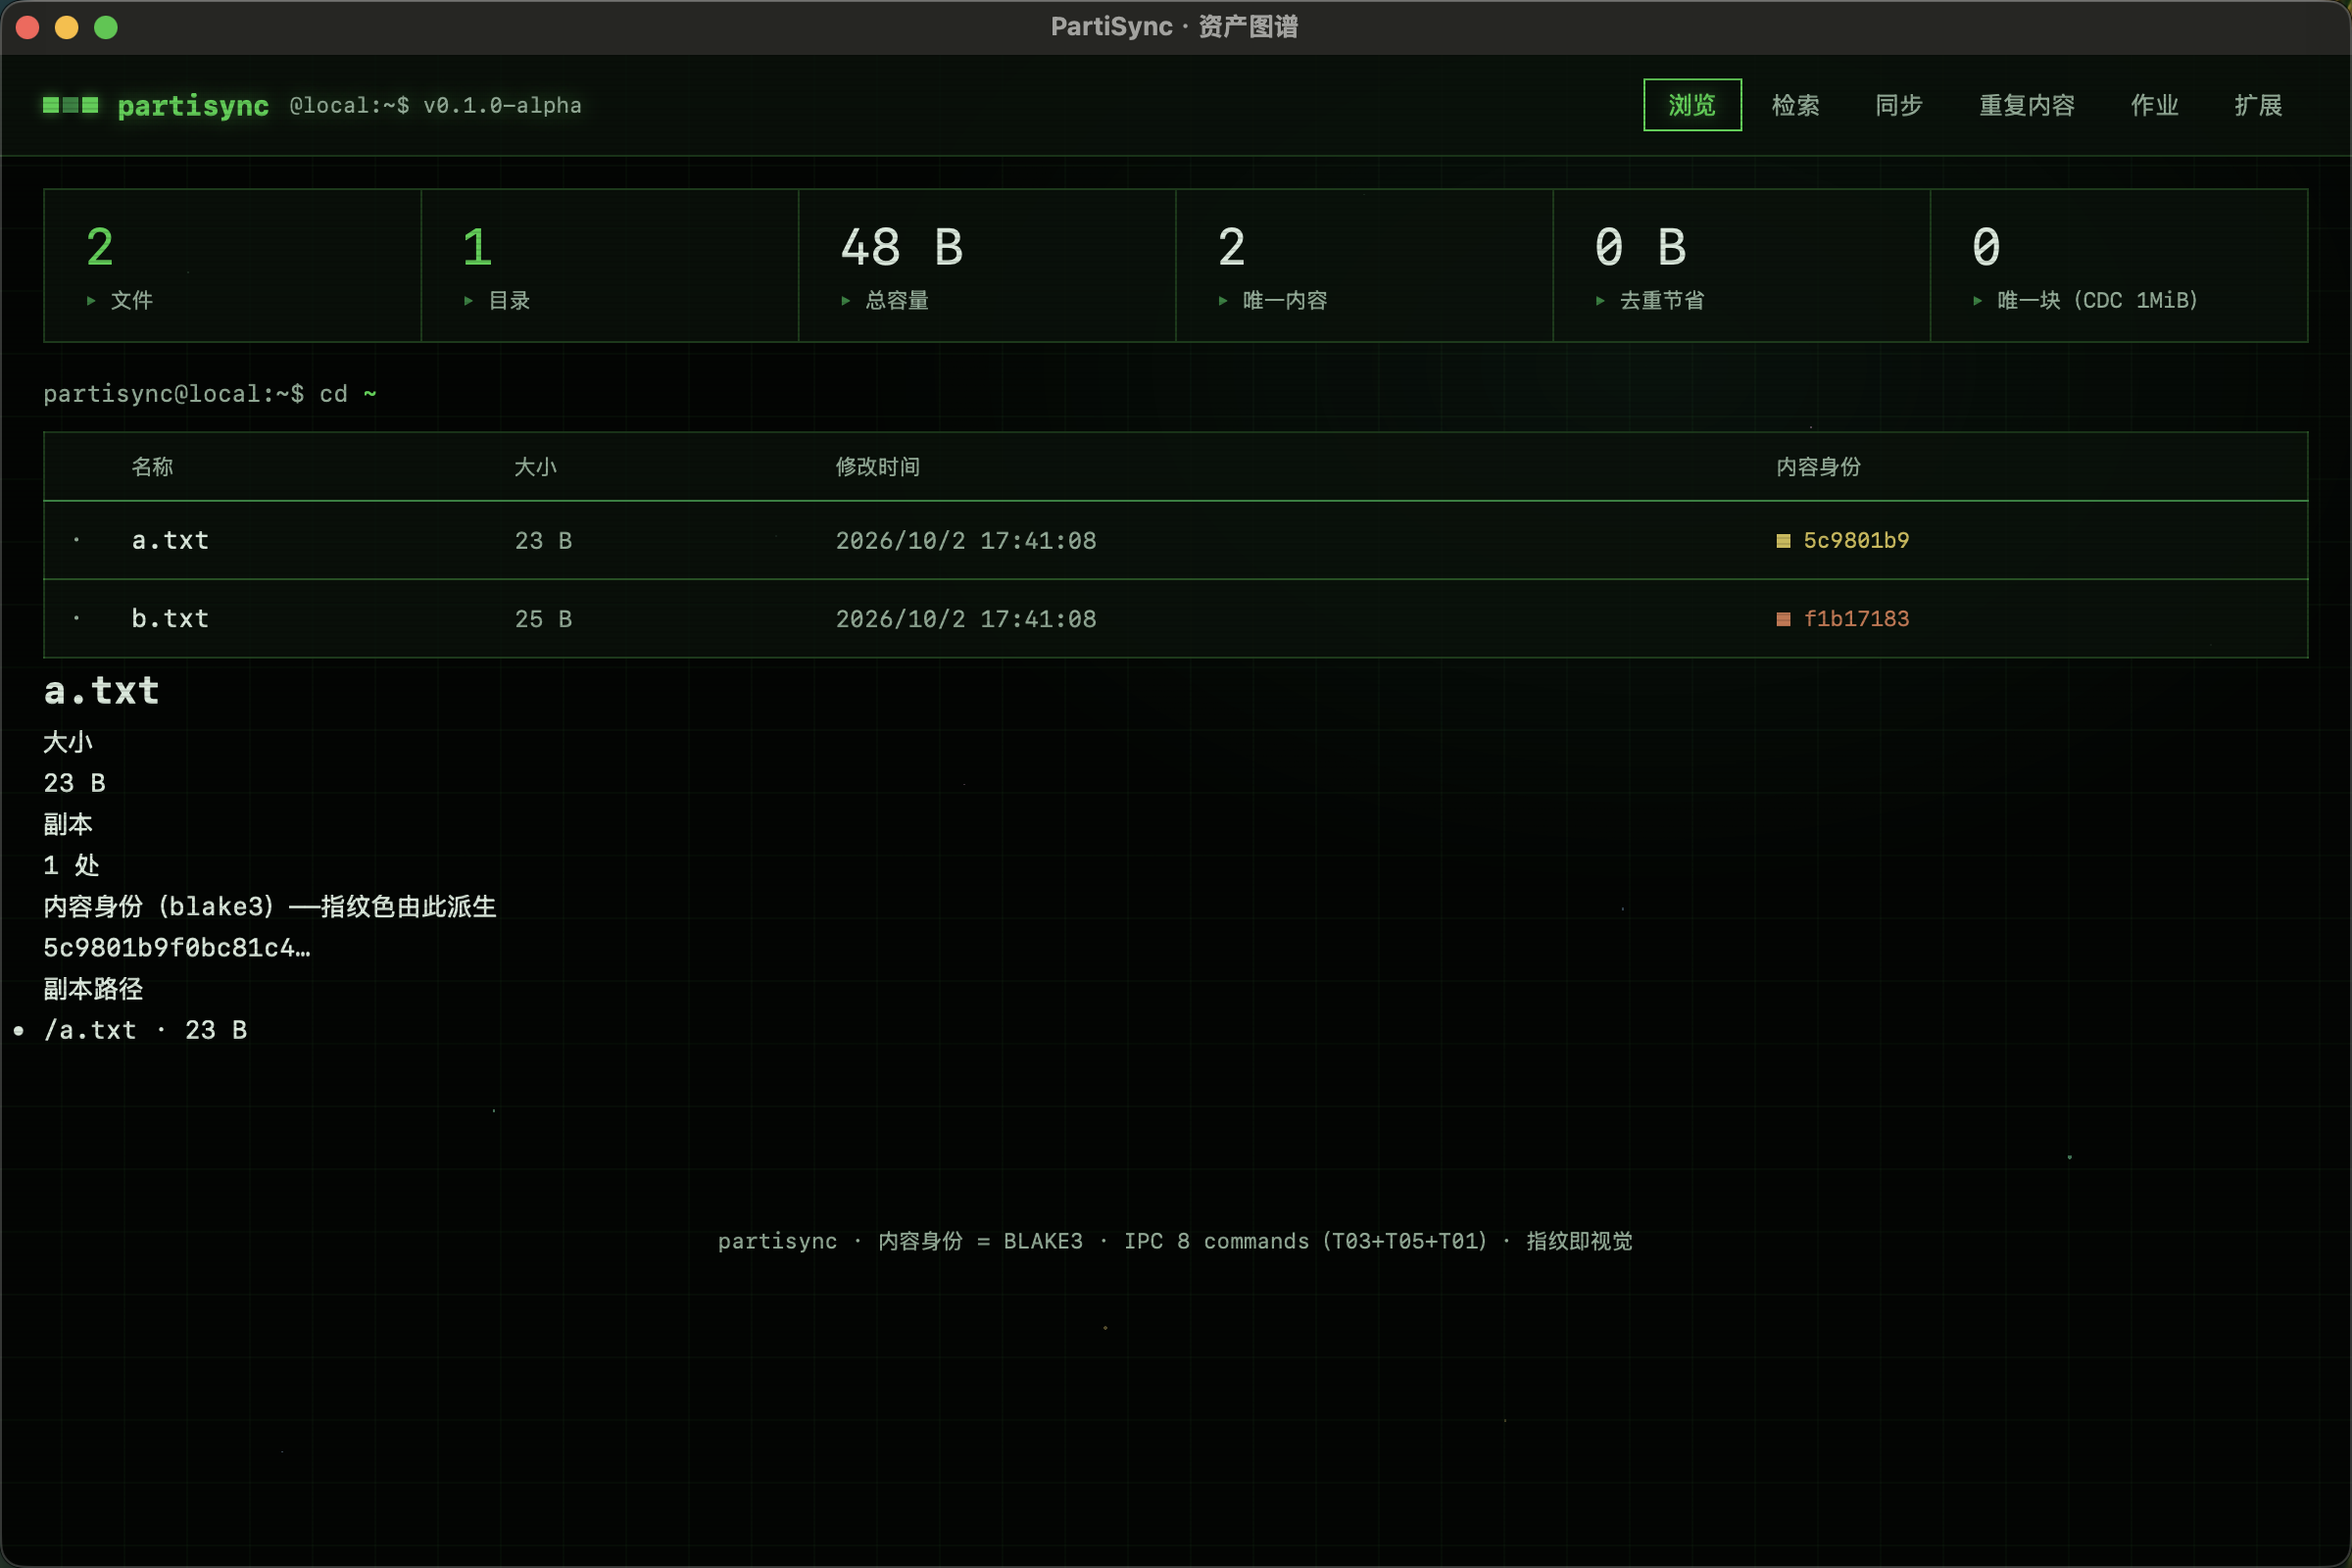
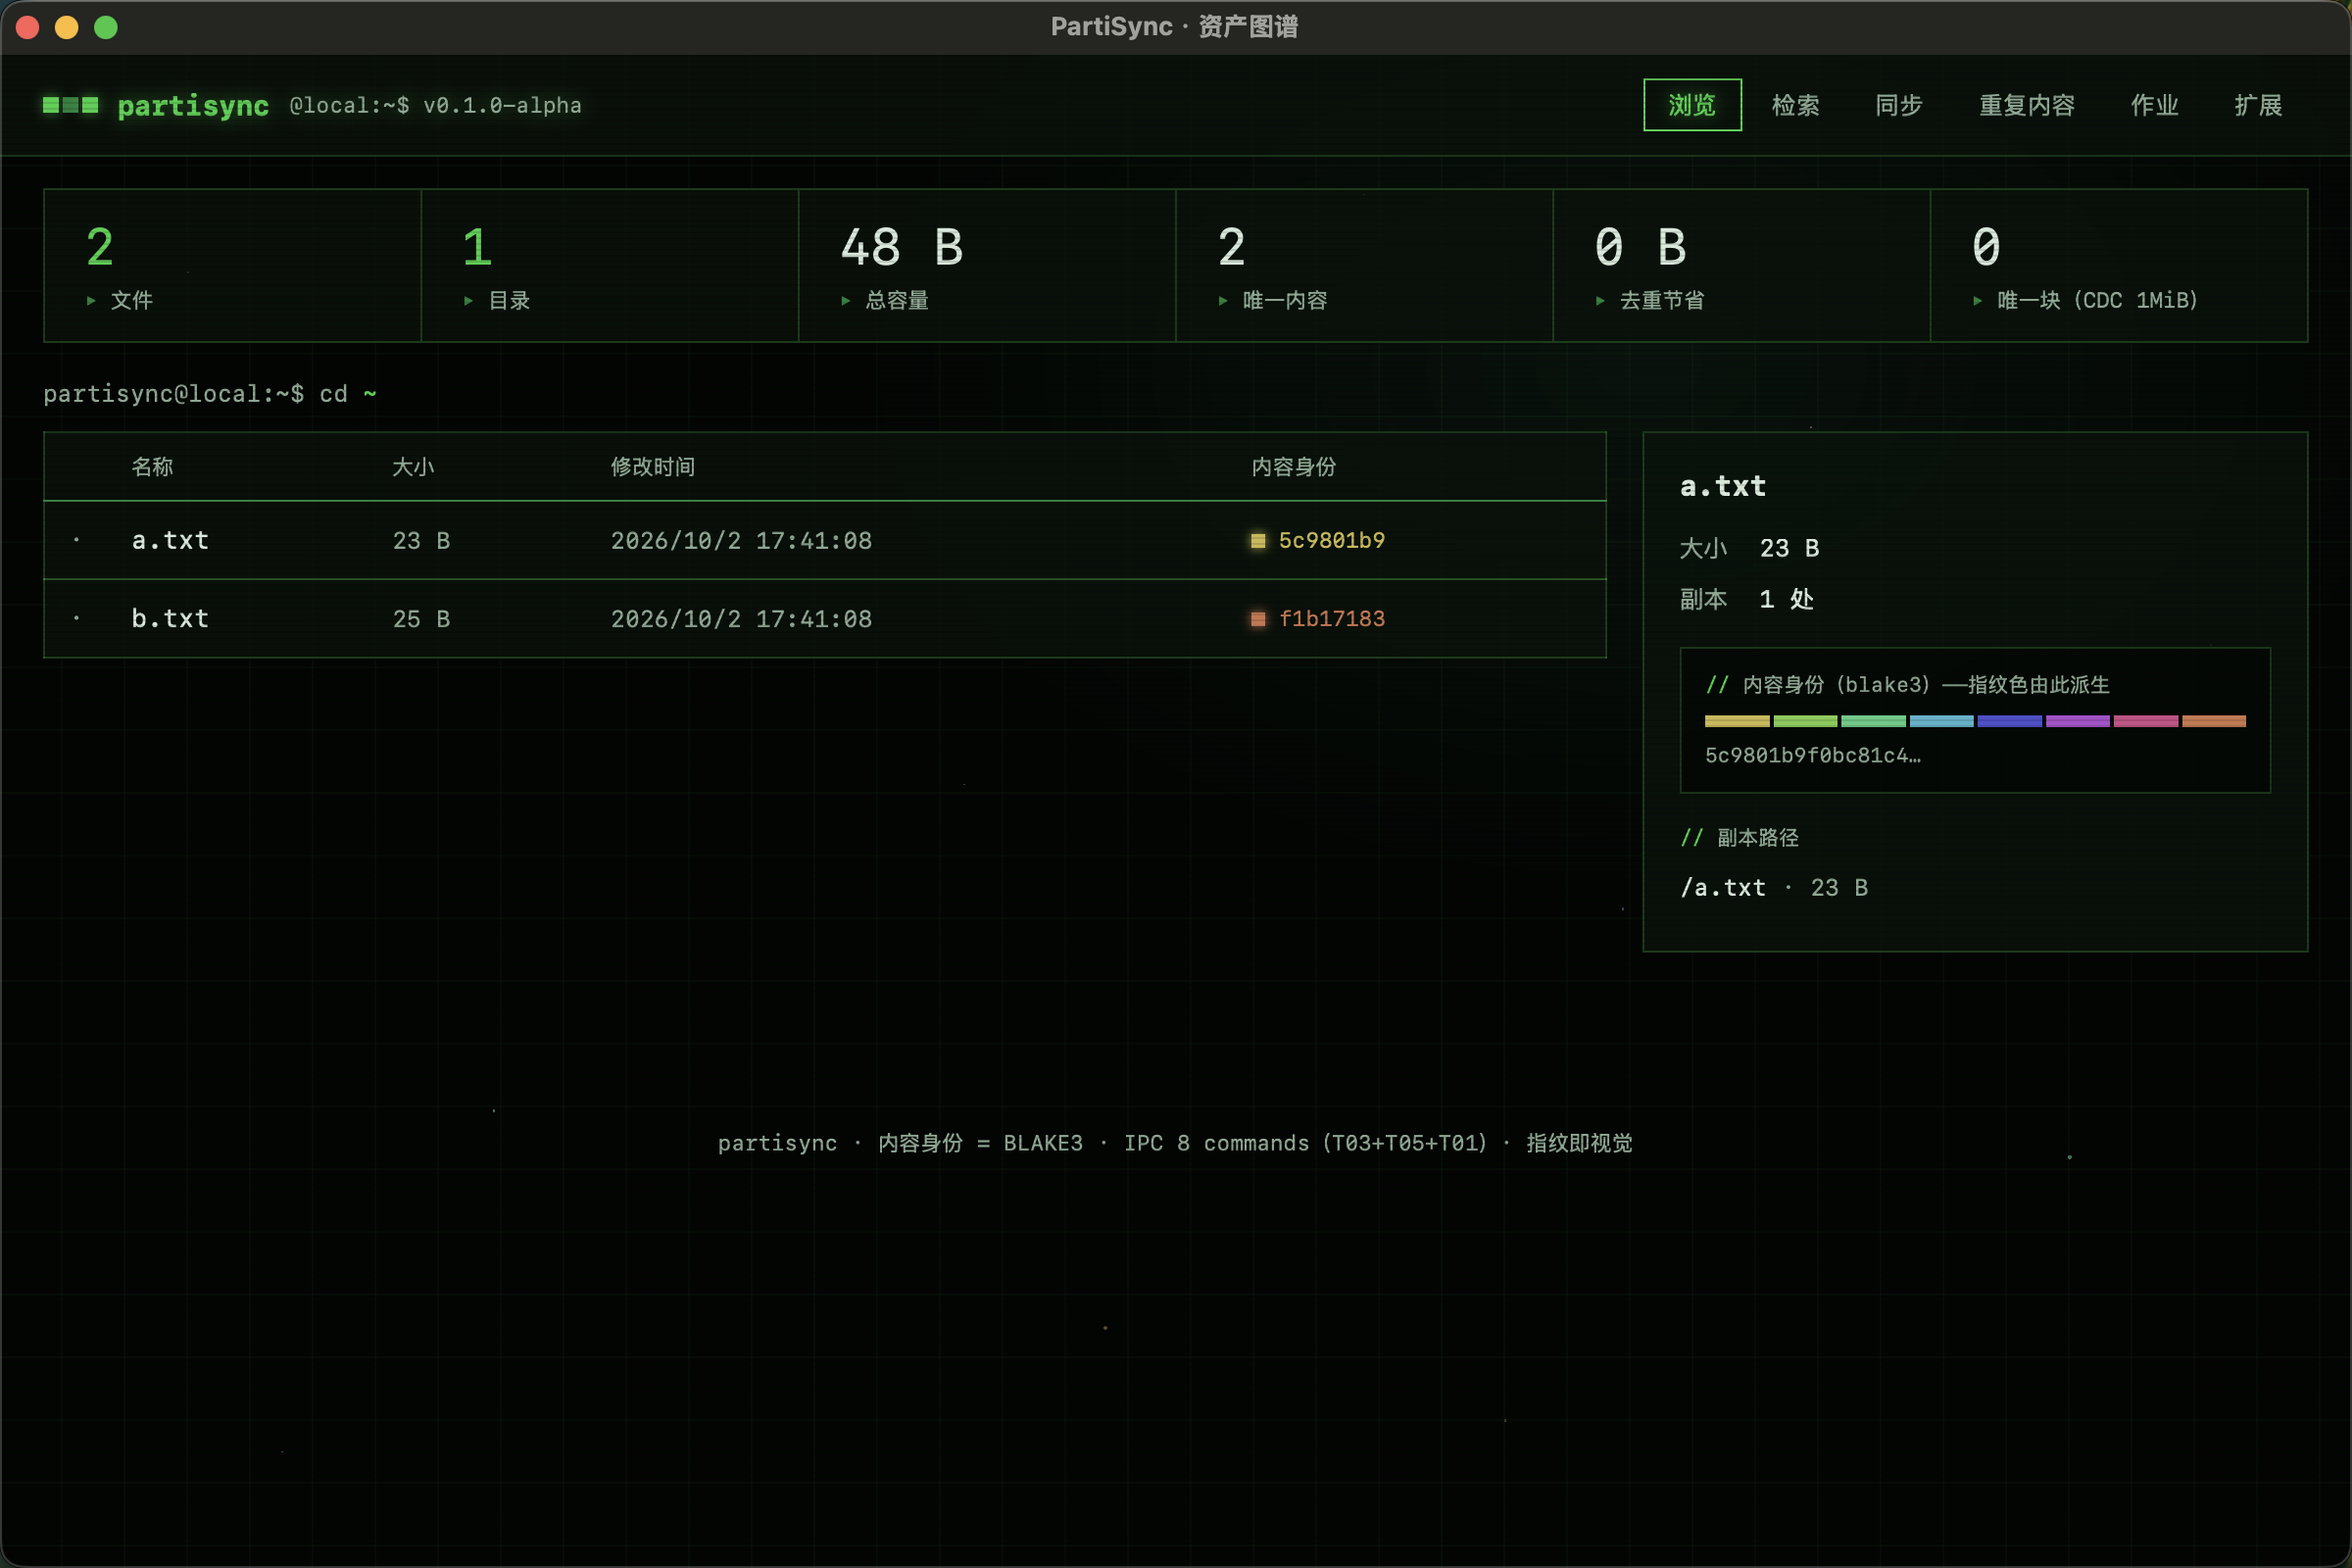
fix(desktop): 详情面板样式补齐——.stage 双栏/.detail dl/指纹色带（对照 mockup） [M8-WP05-T02]
Task-ID: M8-WP05-T02
Spec: docs/specs/M8-WP05.md
AI-Assist: GLM-5.3-Flash (ZCode) (styles-v3 补 .stage flex 双栏/.detail 面板/dl grid/fingerprint 8 段色带/copies 列表——此前仅在 mockup 未落 styles；GUI 截图对照 mockup 一致)
AI-Review: GLM-5.3-Flash (用户批评成立：视觉自查缺位——本 fix 后截图复核通过)

diff --git a/crates/partisync-desktop/ui/styles-v3.css b/crates/partisync-desktop/ui/styles-v3.css
@@ -207,6 +207,38 @@ main { padding: 0 22px 56px; }
 .panel-table tr.row-dir td.icon { color: var(--green); }
 .panel-table tr.row:hover td { background: rgba(34, 208, 69, 0.06); }
 .panel-table td.icon { width: 20px; color: var(--text-dim); }
+.panel-table td.fp i { border-radius: 50%; box-shadow: 0 0 5px var(--fp); }
+
+/* ===== 浏览双栏（表 + 详情面板；设计 v4.3 browse wireframe） ===== */
+.stage { display: flex; align-items: flex-start; gap: 18px; }
+.stage .panel-table { flex: 1; min-width: 0; }
+.detail {
+  width: 340px; flex-shrink: 0;
+  background: var(--panel); border: 1px solid var(--panel-line);
+  padding: 16px 18px 20px;
+  position: sticky; top: 14px;
+}
+.detail h2 { font-size: 14.5px; font-weight: 700; color: var(--text); line-height: 1.45; margin-bottom: 12px; }
+.detail dl { display: grid; grid-template-columns: auto 1fr; gap: 6px 16px; font-size: 12.5px; margin-bottom: 14px; }
+.detail dt { color: var(--text-dim); }
+.detail dd { color: var(--text); }
+.detail .fingerprint {
+  margin: 14px 0; padding: 10px 12px;
+  background: rgba(2, 5, 3, 0.7); border: 1px solid var(--panel-line);
+}
+.detail .fingerprint .label { font-size: 10.5px; color: var(--text-dim); margin-bottom: 7px; }
+.detail .fingerprint .label::before { content: "// "; color: var(--green); }
+.detail .fingerprint .strip { display: flex; height: 6px; gap: 2px; }
+.detail .fingerprint .strip i { flex: 1; }
+.detail .fingerprint .hash {
+  font-size: 10.5px; margin-top: 6px; word-break: break-all; color: var(--text-dim);
+}
+.detail .copies { margin-top: 14px; }
+.detail .copies .label { font-size: 10.5px; color: var(--text-dim); margin-bottom: 4px; }
+.detail .copies .label::before { content: "// "; color: var(--green); }
+.detail .copies ul { margin: 0; padding: 0; list-style: none; font-size: 12px; }
+.detail .copies li { padding: 3px 0; color: var(--text); word-break: break-all; }
+.detail .copies li .dim { color: var(--text-dim); }
 
 /* ===== 同步/横幅 ===== */
 .status-banner {
